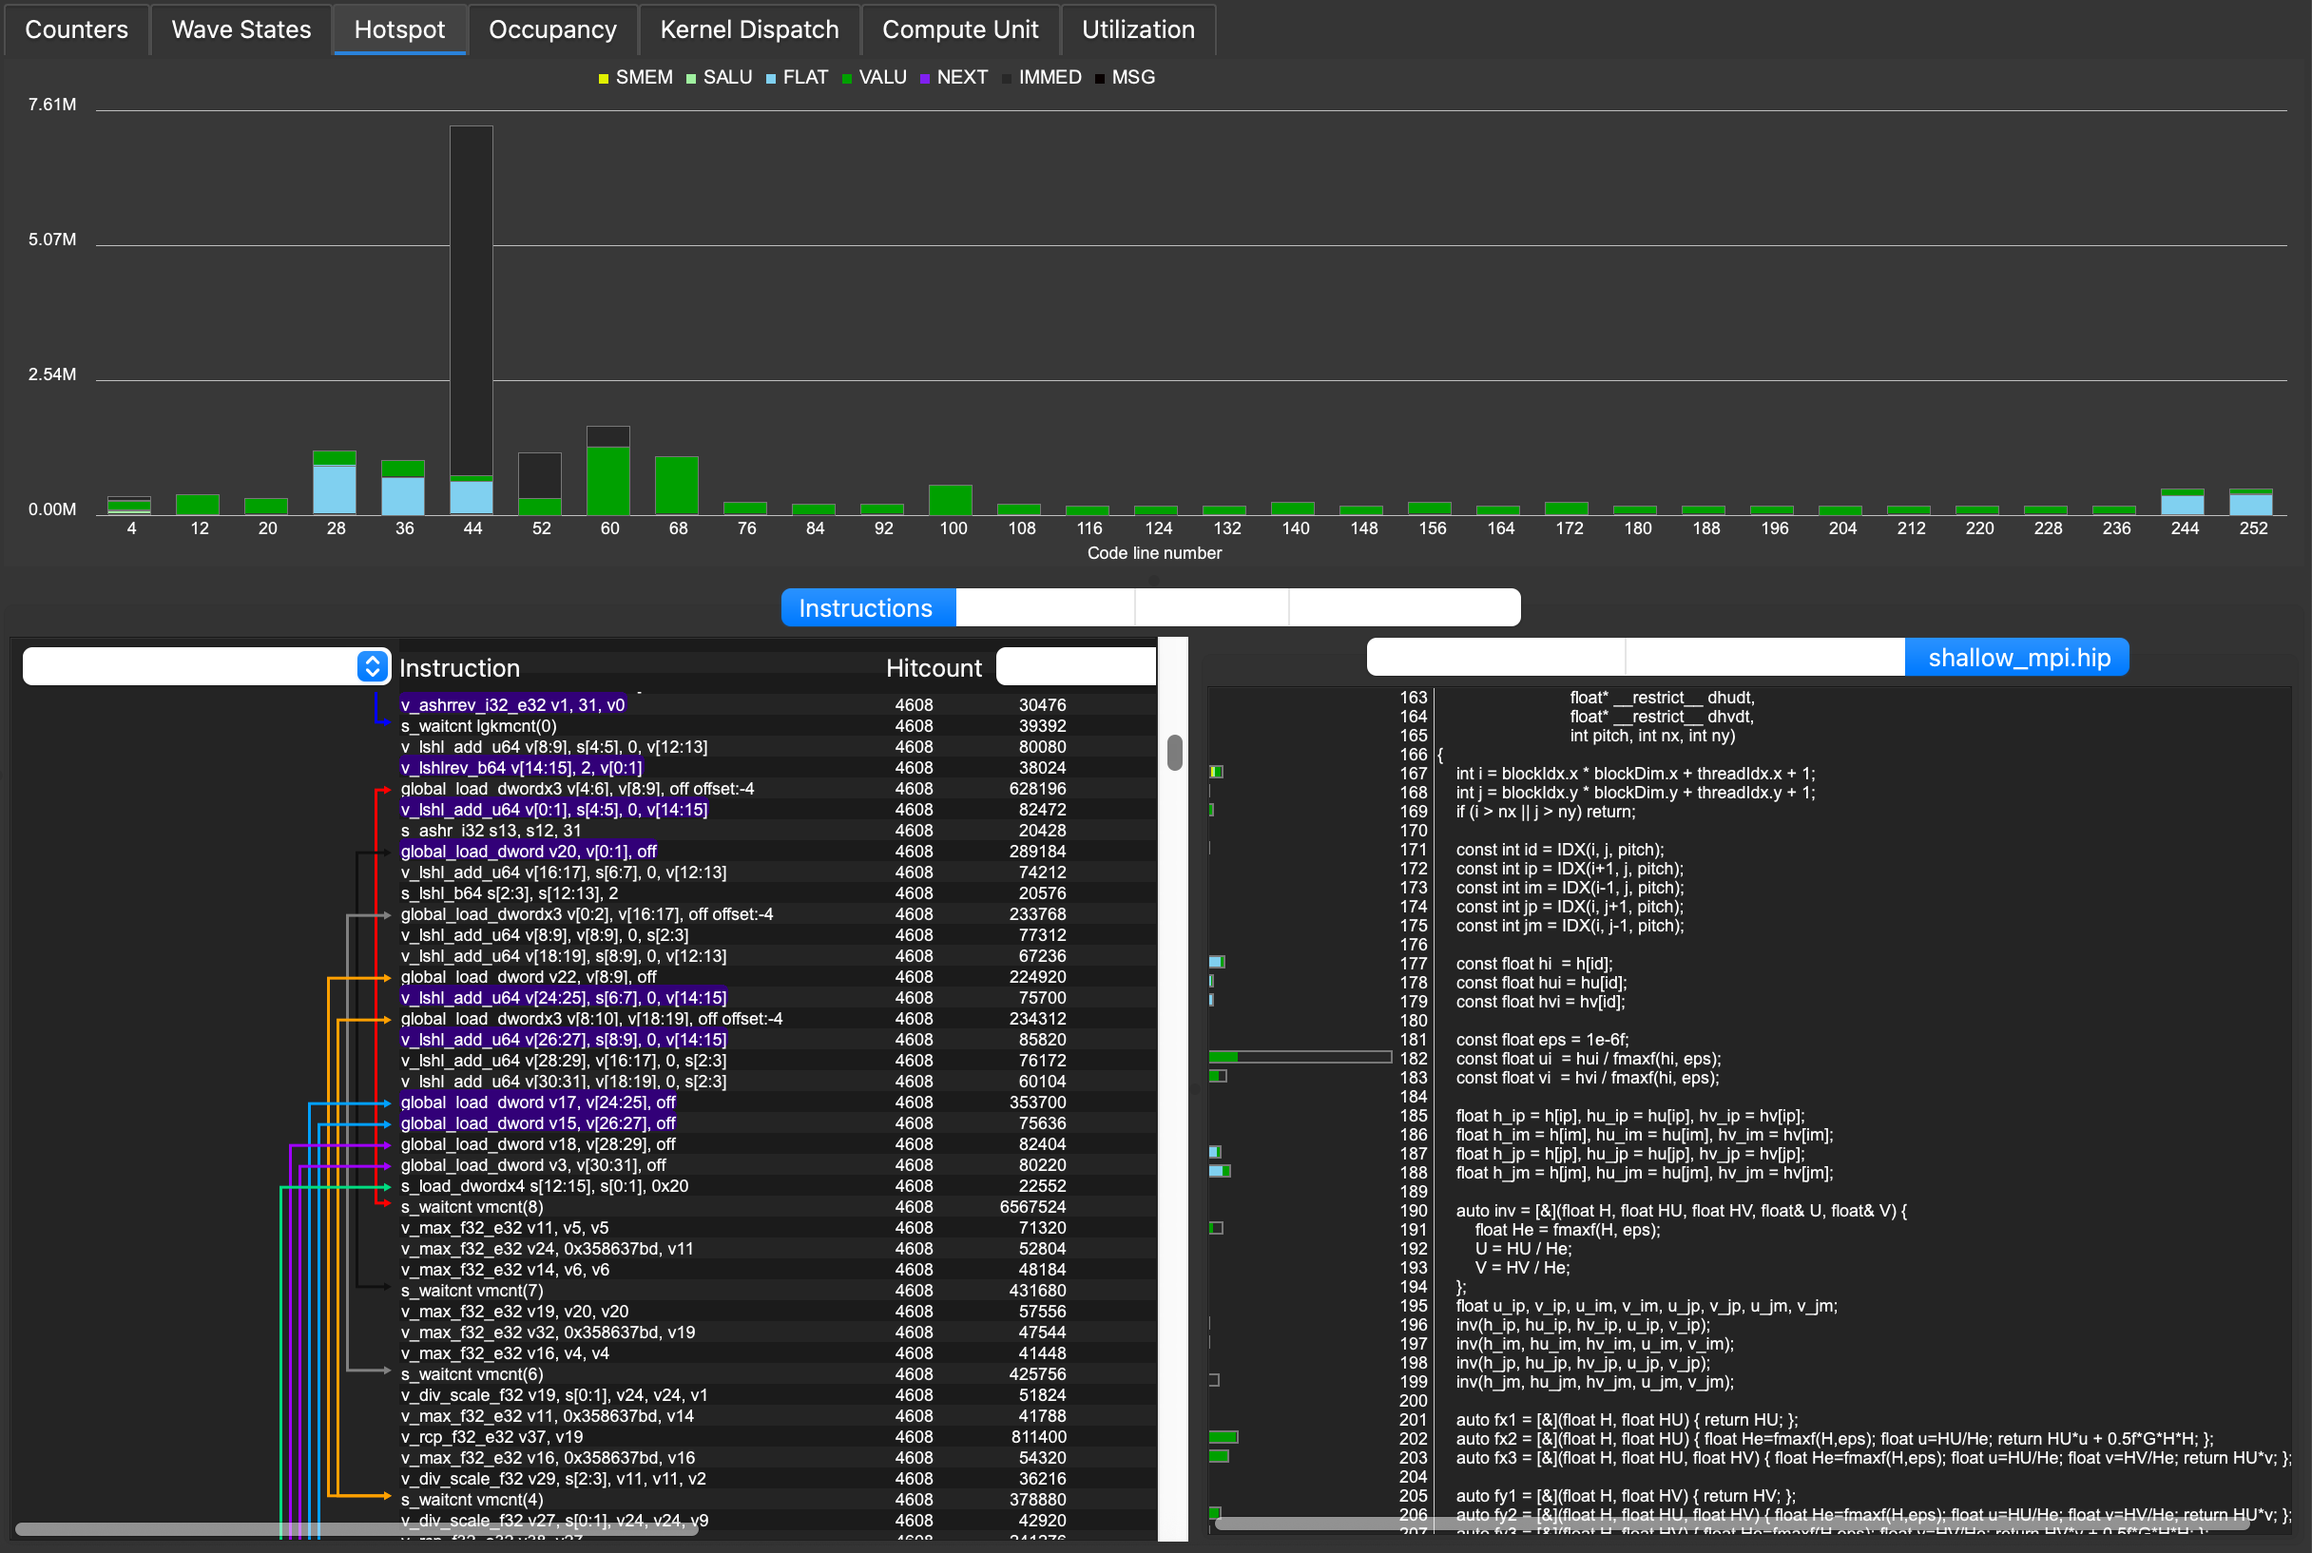
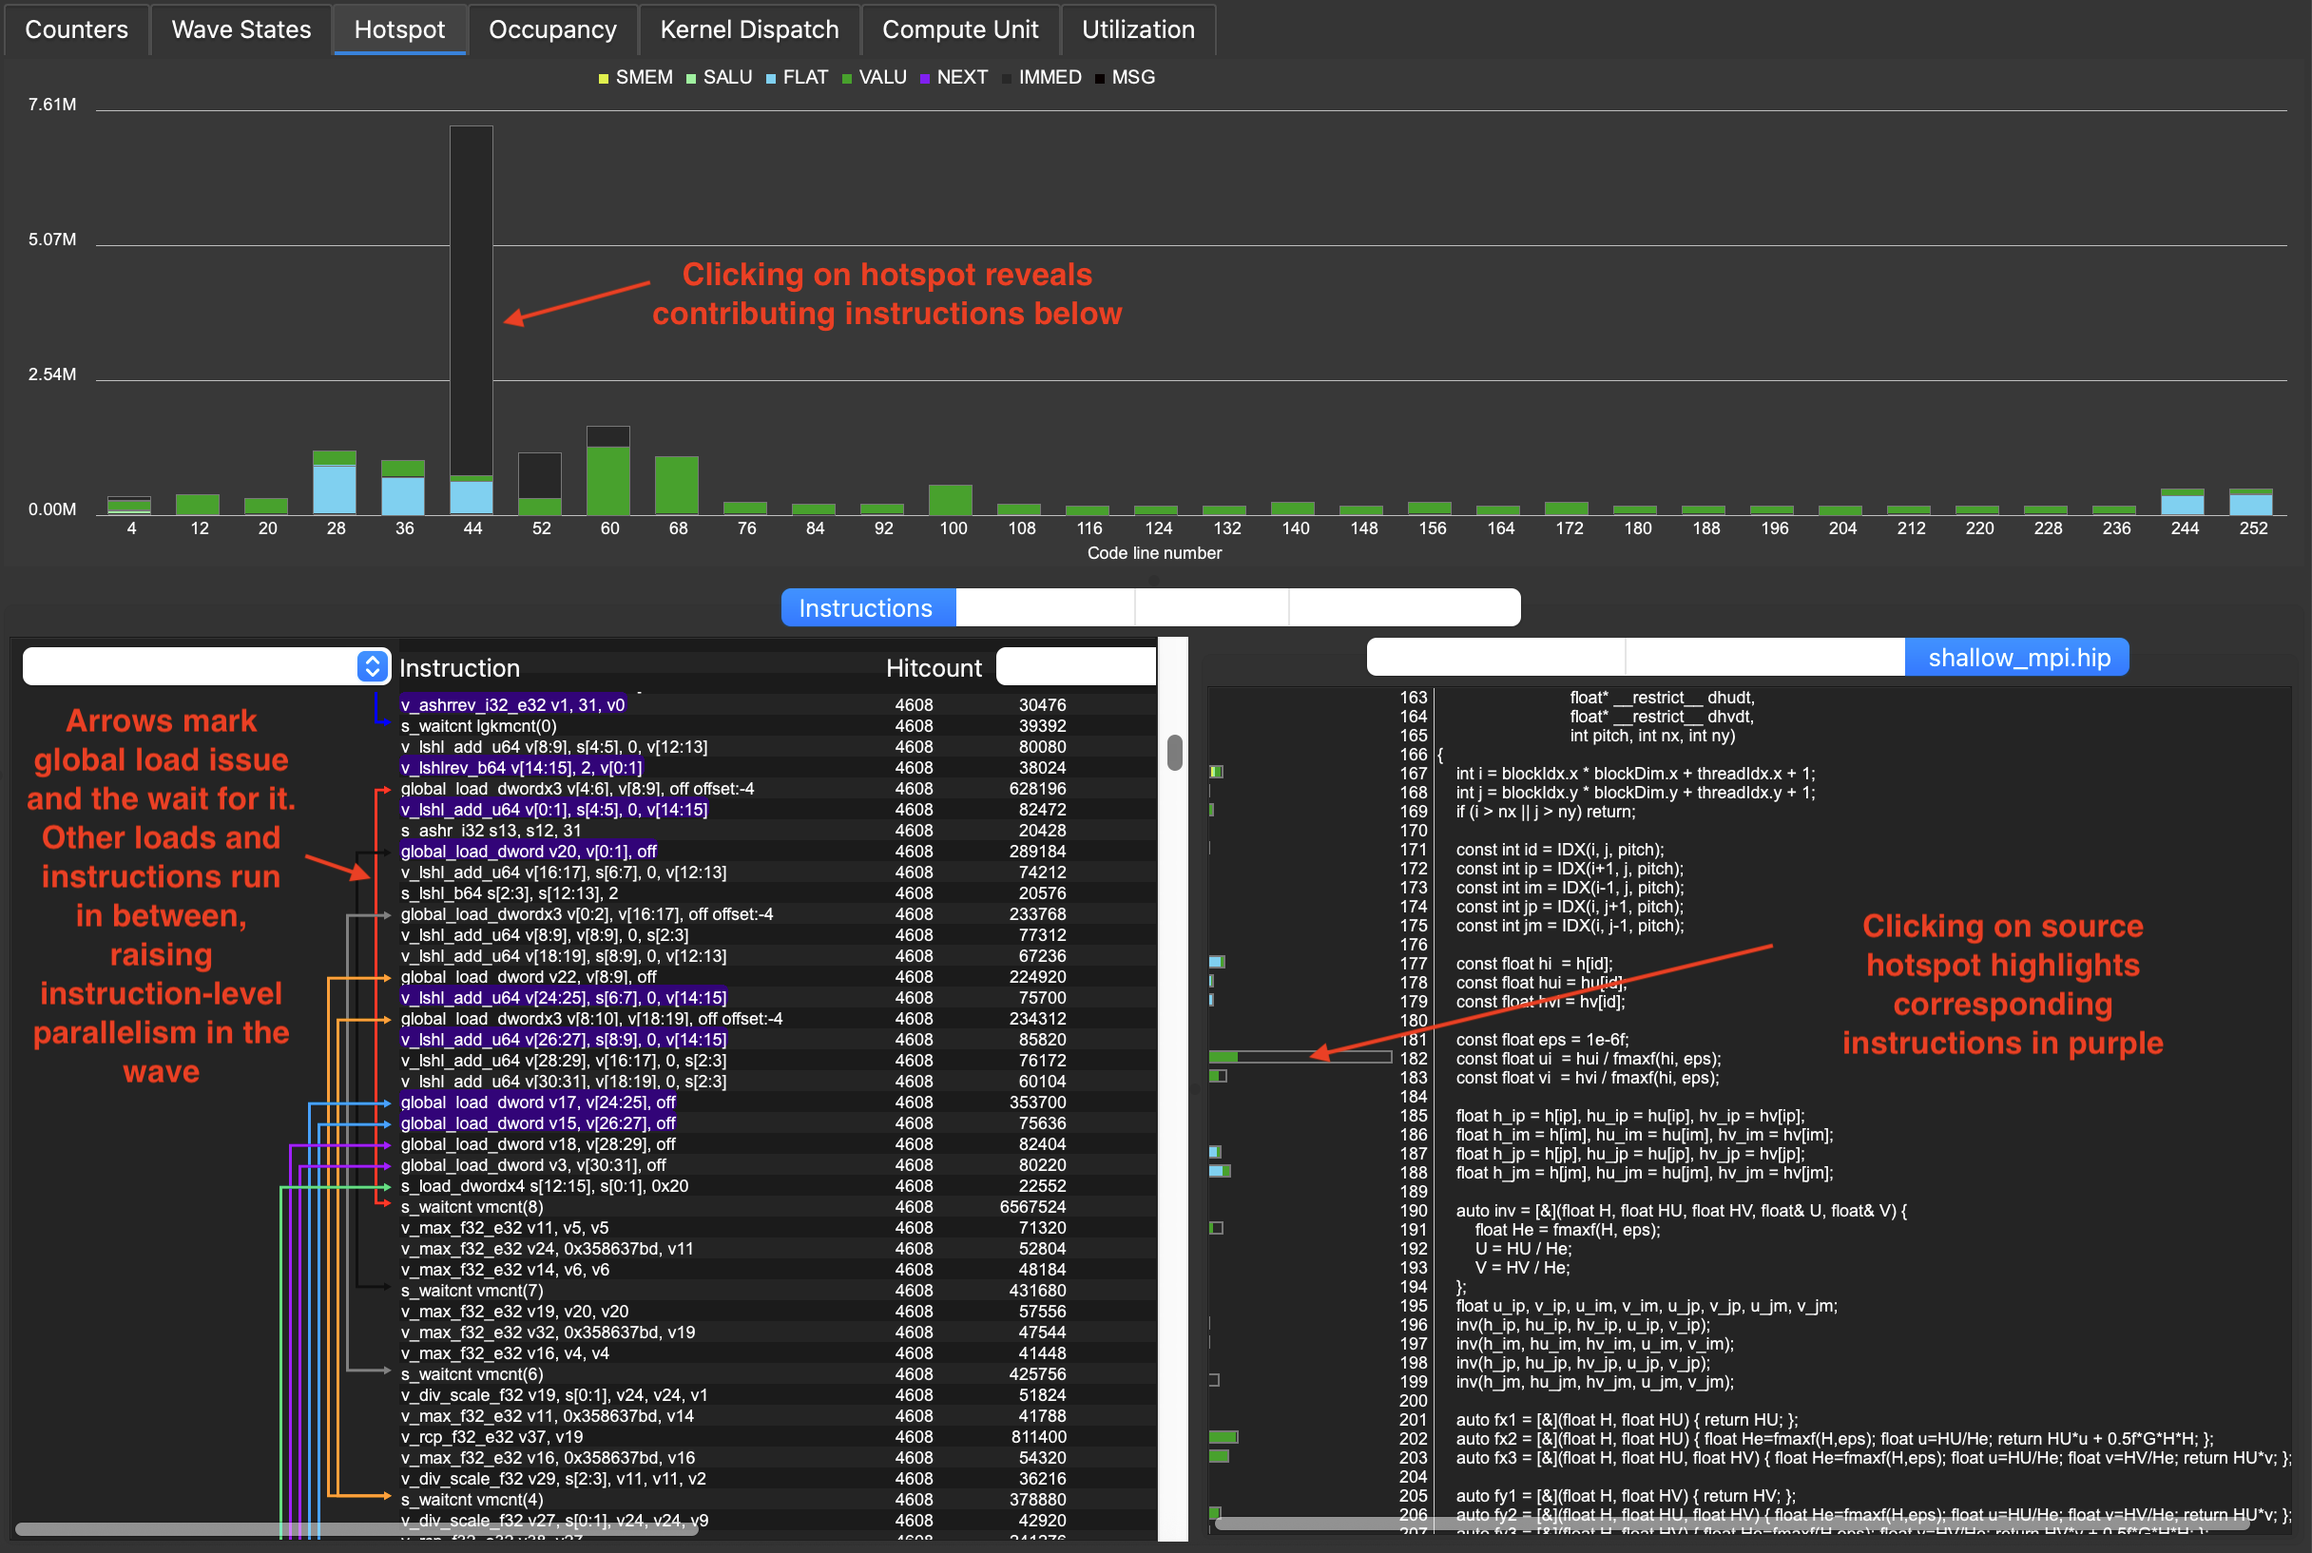
Fix narrative in stage 4

diff --git a/Profiling-by-example/shallow-water/advanced/4_vectorized_loads/README.md b/Profiling-by-example/shallow-water/advanced/4_vectorized_loads/README.md
@@ -50,6 +50,30 @@ memory waits in this kernel become visible:
      and the global_load_dwordx3 x-neighbour reads -->
 <img src="../../figs/advanced_3_block_64x4_att_hotspot.png" alt="ROCprof Compute Viewer hotspot view of compute_rhs before vectorization" />
 
+The panels are linked. Clicking a hotspot, either in the hotspot panel or on the line it points at in
+the source panel, highlights that line's instructions in the assembly view and marks the ones the
+cycles were spent on, which is how a cost charged to a line of C++ becomes a cost charged to an
+instruction.
+
+The arrow in that view is the thing to follow. It runs from an `s_waitcnt` back to the `global_load`
+whose result it is waiting for, and the gap between the two is the interval the compiler managed to
+fill: the load is issued early, other instructions issue while it is in flight, and only at the wait
+does the wavefront stop.
+
+On MI300A the hotspot is not a load at all. It is line 182 of stage 3's `shallow_mpi.hip`, the first
+line that uses what the loads fetched:
+
+```c++
+    const float ui  = hui / fmaxf(hi, eps);
+```
+
+Clicking it highlights the `s_waitcnt` that blocks there and the division that follows, which is
+where the cycles go. The loads being waited on sit further up the listing:
+
+<!-- SNAPSHOT: stage 3 with source line 182 selected, the assembly view highlighting the s_waitcnt
+     and the division, with the three global_load_dwordx3 visible above them -->
+<img src="../../figs/advanced_3_block_64x4_att_hotspot_wait_divide.png" alt="ROCprof Compute Viewer with source line 182 selected, highlighting the s_waitcnt and the division in the assembly view" />
+
 The stalling loads in the stage 3 trace are `global_load_dwordx3` instructions, attributed to the
 x-neighbour reads:
 
